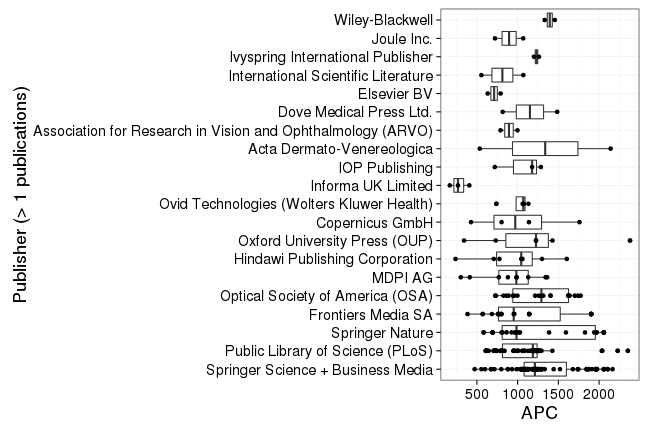
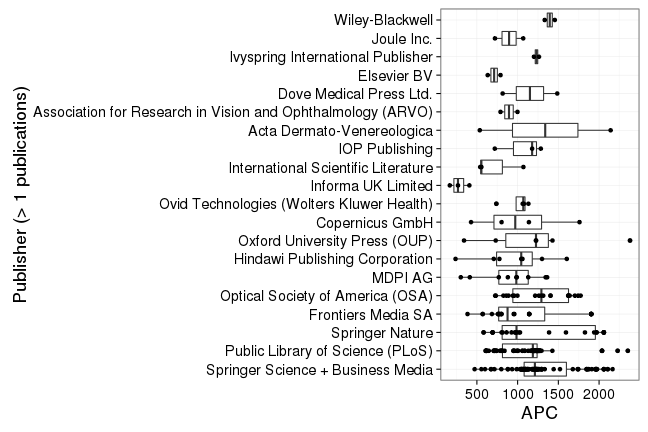
muenster: mail + data updated

diff --git a/_posts/2017-02-17-muenster.md b/_posts/2017-02-17-muenster.md
@@ -15,7 +15,7 @@ We welcome [Münster University](https://www.uni-muenster.de/en/) as new contrib
 [Münster University Library](https://www.ulb.uni-muenster.de/) is in charge of the institution's [Open Access Publication Funds](https://www.uni-muenster.de/Publizieren/service/publikationsfonds/),
 which received support by the Deutsche Forschungsgemeinschaft (DFG) under its [Open-Access Publishing Programme](http://www.dfg.de/en/research_funding/programmes/infrastructure/lis/funding_opportunities/open_access/).
 
-Contact person is [Viola Voß](mailto:voss.viola@uni-muenster.de).
+Contact person is [Viola Voß](mailto:openaccess@uni-muenster.de).
 
 ## About the dataset
 
@@ -25,7 +25,7 @@ The initial dataset contributed by Münster University contains information on p
 
 
 
-The data covers publication fees for 323 articles. Total expenditure amounts to 379 974€ and the average fee is 1 176€.
+The data covers publication fees for 325 articles. Total expenditure amounts to 381 287€ and the average fee is 1 173€.
 
 The following table and plots show the payments Münster University Library has made to publishers from 2011 to 2016.
 
@@ -35,7 +35,7 @@ The following table and plots show the payments Münster University Library has 
 |Springer Science + Business Media                           |      107|            141268|          1320|
 |Public Library of Science (PLoS)                            |       84|             92516|          1101|
 |Springer Nature                                             |       27|             34285|          1270|
-|Frontiers Media SA                                          |       23|             25587|          1112|
+|Frontiers Media SA                                          |       24|             26360|          1098|
 |Optical Society of America (OSA)                            |       21|             26549|          1264|
 |MDPI AG                                                     |        9|              8175|           908|
 |Hindawi Publishing Corporation                              |        7|              6729|           961|
@@ -43,12 +43,12 @@ The following table and plots show the payments Münster University Library has 
 |Copernicus GmbH                                             |        4|              4130|          1033|
 |Ovid Technologies (Wolters Kluwer Health)                   |        4|              4011|          1003|
 |Informa UK Limited                                          |        3|               843|           281|
+|International Scientific Literature                         |        3|              2167|           722|
 |IOP Publishing                                              |        3|              3183|          1061|
 |Acta Dermato-Venereologica                                  |        2|              2678|          1339|
 |Association for Research in Vision and Ophthalmology (ARVO) |        2|              1788|           894|
 |Dove Medical Press Ltd.                                     |        2|              2303|          1151|
 |Elsevier BV                                                 |        2|              1423|           712|
-|International Scientific Literature                         |        2|              1626|           813|
 |Ivyspring International Publisher                           |        2|              2463|          1232|
 |Joule Inc.                                                  |        2|              1791|           895|
 |Wiley-Blackwell                                             |        2|              2789|          1395|
